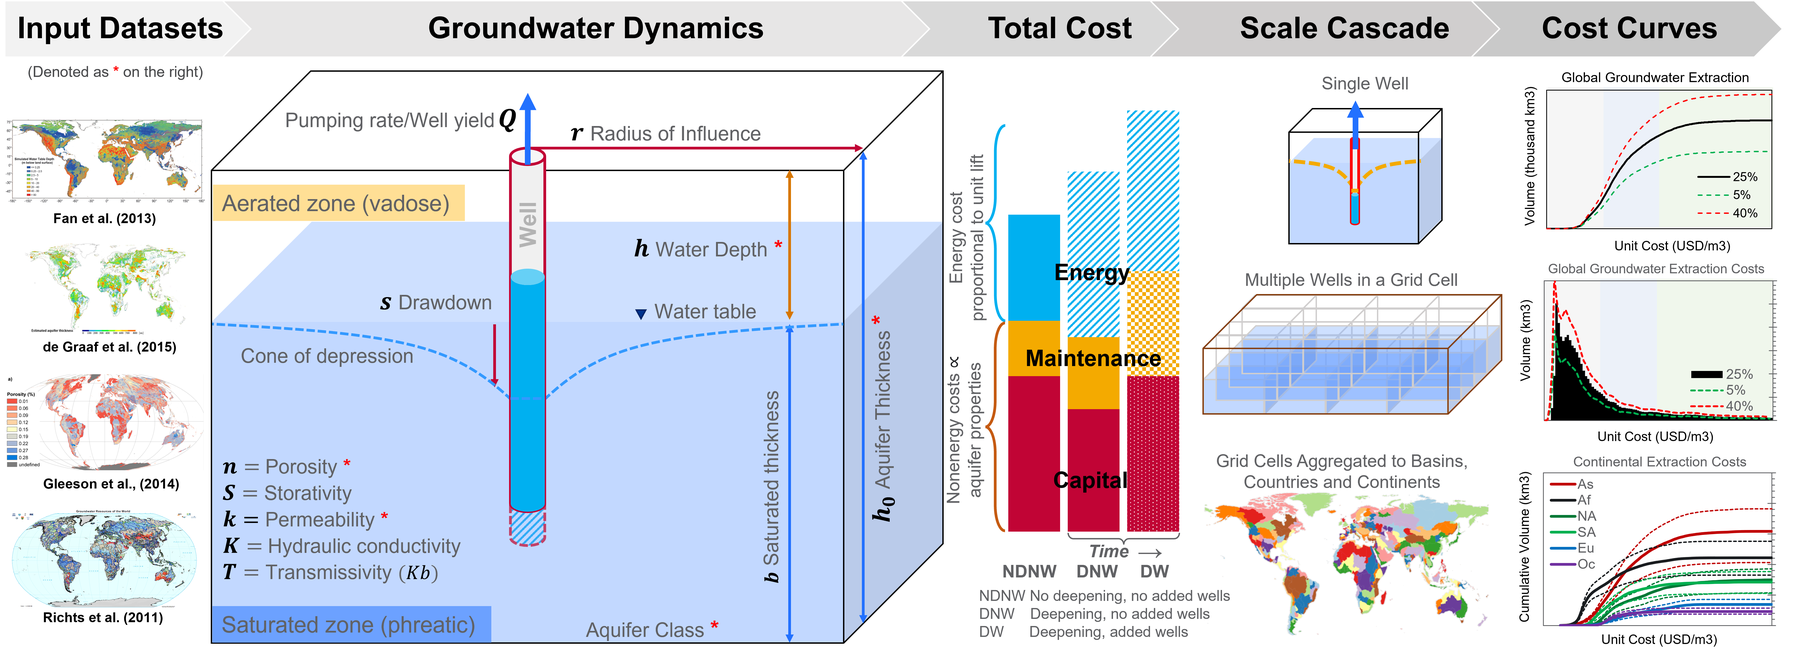
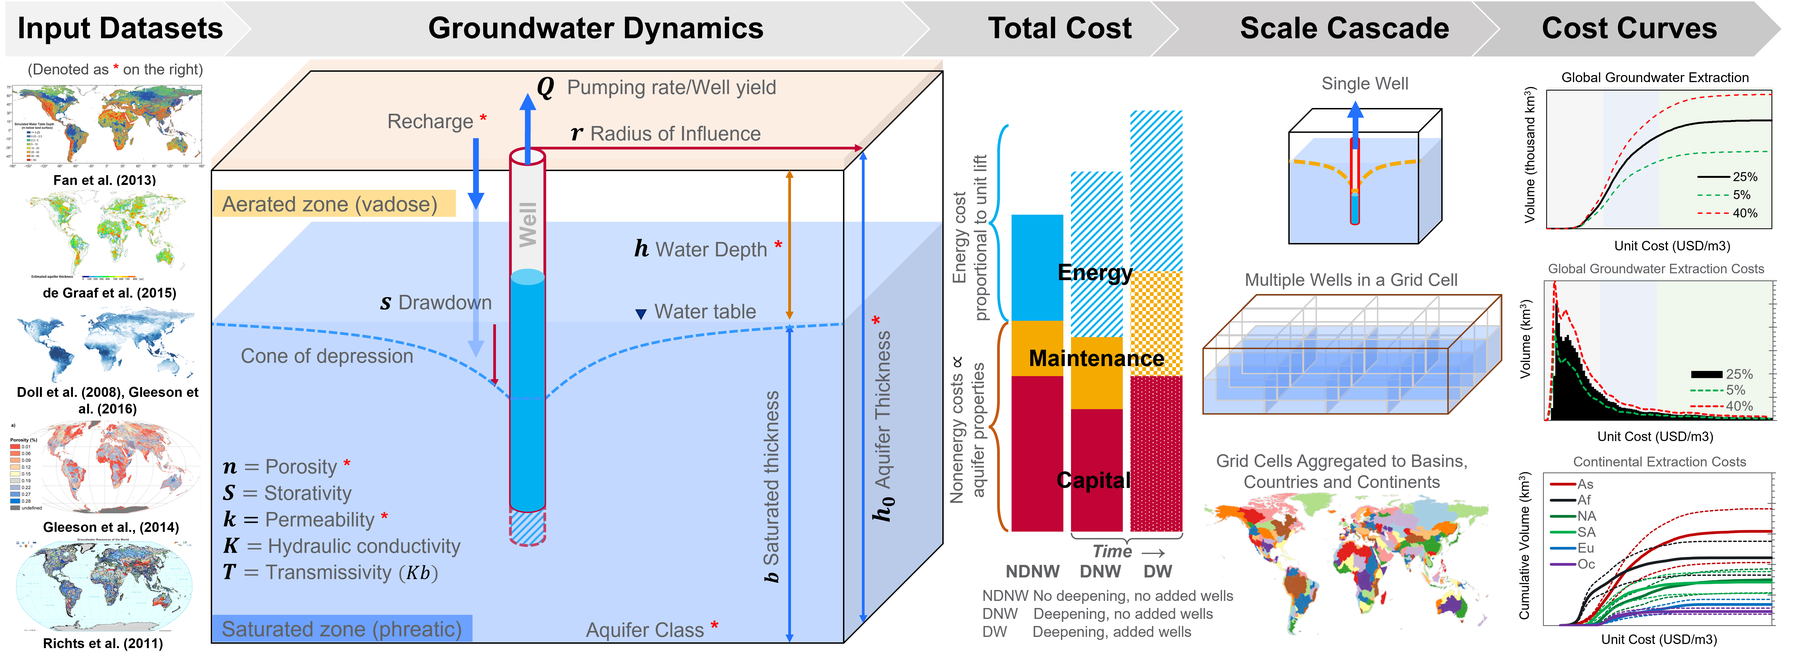
update documentation pre-release

Changed region(s): [[0.0, 0.0621, 0.53, 0.9931], [0.53, 0.1862, 0.6547, 0.7758], [0.53, 0.8069, 0.6858, 0.962]]

diff --git a/inputs/README.md b/inputs/README.md
@@ -1,8 +1,8 @@
 # Superwell Inputs
 
-[![DOI](https://data.msdlive.org/badge/DOI/10.57931/2307831.svg)](https://doi.org/10.57931/2307831)
+[![DOI](https://data.msdlive.org/badge/DOI/10.57931/2484226.svg)](https://doi.org/10.57931/2484226)
 
-The inputs for [`superwell`](https://github.com/JGCRI/superwell.git) primarily  comprises of aquifer properties on a 0.5° scale, including depth to groundwater, aquifer thickness, WHYMap aquifer classes, porosity, and permeability. These parameters have been digitized and geo-processed from sources like Fan et al. (2013), de Graaf et al. (2015), Richts et al. (2011), and Gleeson et al. (2014).
+The inputs for [`superwell`](https://github.com/JGCRI/superwell.git) primarily  comprises of aquifer properties on a 0.5° scale, including depth to groundwater, aquifer thickness, WHYMap aquifer classes, recharge rates, porosity, and permeability. These parameters have been digitized and geo-processed from sources like Fan et al. (2013), de Graaf et al. (2015), Richts et al. (2011),  Döll and Fiedler (2008), Gleeson et al., (2016), Messager et al., (2016), and Gleeson et al. (2014).
 
 Gridded aquifer properties can be utilized independently to estimate global groundwater availability or as inputs for the [`superwell`](https://github.com/JGCRI/superwell.git) model. [`superwell`](https://github.com/JGCRI/superwell.git) simulates groundwater extraction, and estimates global extractable volumes and unit costs ($/km³) under various user-defined scenarios.
 
@@ -16,9 +16,10 @@ The [`inputs/`](./inputs/) folder is structured as follows:
 | [Theis_well_function_table.csv](./Theis_well_function_table.csv) | Lookup table for well function relation               |
 | [basin_to_country_mapping.csv](./basin_to_country_mapping.csv) | Mapping between water basins and countries            |
 | [continent_county_mapping.csv](./continent_county_mapping.csv) | Mapping between continents and countries              |
-| [**inputs.csv**](./inputs.csv)                    | **Gridded aquifer properties**                            |
+| [**inputs_recharge_lakes.csv**](./inputs_recharge_lakes.csv)                    | **Gridded aquifer properties**                            |
 | [**params.csv**](./params.csv)                    | **Model settings and scenario assumptions**              |
 | [prep_inputs.R](./prep_inputs.R)              | Script to generate `inputs` file from geo-processed [`shapefiles/`](./shapefiles/)          |
+| [prep_inputs_recharge_lakes.R](./prep_inputs_recharge_lakes.R)              | Script to generate `inputs_recharge_lakes` file (with recharge and lakes) from geo-processed [`shapefiles/`](./shapefiles/)          |
 | [sample_inputs.py](./sample_inputs.py)        | Script to sample from `inputs` dataset    |
 | [sampled_data_100.csv](./sampled_data_100.csv) | Sampled set of aquifer properties for diagnostics     |
 | [sampled_data_100.png](./sampled_data_100.png) | Distribution comparison of sampled data               |
@@ -30,11 +31,14 @@ The [`inputs/`](./inputs/) folder is structured as follows:
 | Parameter                    | Description                              | Units               |
 |------------------------------ |------------------------------------------|---------------------|
 | `Country_filter`             | specify country filter if running for one country                           | N/A                 |
-| `Gridcell_filter`            | specify grid cell number to run one grid cell. See `GridCellID` column in [inputs.csv](./inputs.csv)                         | N/A                 |
+| `Basin_filter`            | specify basin name to run all cells within one basin. See `Basin_long_name` column in [inputs_recharge_lakes.csv](./inputs_recharge_lakes.csv)                         | N/A
+| `Gridcell_filter`            | specify grid cell number to run one grid cell. See `GridCellID` column in [inputs_recharge_lakes.csv](./inputs_recharge_lakes.csv)                         | N/A                 |
 | `Total_Simulation_Years`     | constrain total pumping lifetime                   | years               |
 | `Pumping_Days`               | change pumping days per year                    | days/year           |
 | `Depletion_Limit`               | Aquifer volume depletion limit                          | -              |
-| `Ponded_Depth`               | Ponded depth target                         | meters              |
+| `Recharge_Flag`               | Turn on/off recharge effects (default: 1 = on)                         | N/A              |
+| `Shallow_Recharge_Ratio`               | part of recharge reducing pumping requirement (default: 0.2)                         | N/A               |
+| `Shallow_Recharge_Threshold`               | part of ponded depth after which shallow recharge starts contributing to deep aquifer recharge (default: 0.75)                         | N/A               |
 | `Specific_weight`            | Specific weight of water                    |  kg/(m²·s²)          |
 | `Static_head`                | Static head                               | meters              |
 | `Max_Initial_Sat_Thickness`  | Maximum initial saturated thickness     | meters              |
@@ -54,36 +58,38 @@ The [`inputs/`](./inputs/) folder is structured as follows:
 - `Depletion_Limit` and `Ponded_Depth` could be altered to create a scenario for a pumping regime.
 - `Country_filter` and `Gridcell_filter` could be changed to run for specific *spatial* delineation.
 - `Total_Simulation_Years` and `Pumping_Days` could be changed to alter *temporal* extent or yearly pumping duration of groundwater extraction.
+- Change `Recharge_Flag` to 0 to turn off recharge effects or alter `Shallow_Recharge_Ratio` and `Shallow_Recharge_Threshold` to change the recharge effects.
 - All other variables in [params.csv](./params.csv) could also be varied to create alternative scenario assumptions.
 
 ## Aquifer Properties  
 
-File [inputs.csv](./inputs.csv) contains data on permeability, porosity, depth to groundwater, total aquifer thickness, grid area and the WHY class of 235 water basins [![DOI](https://data.msdlive.org/badge/DOI/10.57931/2307831.svg)](https://doi.org/10.57931/2307831).
+File [inputs_recharge_lakes.csv](./inputs_recharge_lakes.csv) contains data on permeability, porosity, depth to groundwater, total aquifer thickness, grid area, lake area, recharge rages, and the WHY class of 235 water basins [![DOI](https://data.msdlive.org/badge/DOI/10.57931/2484226.svg)](https://doi.org/10.57931/2484226).
 
 | Variable           | Description                                                 |
-|-------------------- |------------------------------------------------------------|
-| `GridCellID`        | Unique identifier for each (roughly 0.5°) grid cell         |
-| `Continent`         | Continent name                                             |
-| `Country`           | Country name                                               |
-| `GCAM_basin_ID`     | Identifier for GCAM hydrologic basin                        |
-| `Basin_long_name`   | Full name of the basin                                      |
-| `WHYClass`          | Hydrogeologic classification based on WHYMap aquifer classes (Richts et al., 2011) |
-| `Porosity`          | Soil porosity (%) (Gleeson et al., 2014)                    |
-| `Permeability`      | Soil permeability (in square meters; Gleeson et al., 2014)  |
+|--------------------|------------------------------------------------------------|
+| `GridCellID`       | Unique identifier for each (roughly 0.5°) grid cell         |
+| `Continent`        | Continent name                                             |
+| `Country`          | Country name                                               |
+| `GCAM_basin_ID`    | Identifier for GCAM hydrologic basin                        |
+| `Basin_long_name`  | Full name of the basin                                      |
+| `WHYClass`         | Hydrogeologic classification based on WHYMap aquifer classes (Richts et al., 2011) |
+| `Porosity`         | Soil porosity (%) (Gleeson et al., 2014)                    |
+| `Permeability`     | Soil permeability (in square meters; Gleeson et al., 2014)  |
 | `Aquifer_thickness` | Thickness of the aquifer (in meters; de Graaf et al., 2015) |
-| `Depth_to_water`    | Depth to groundwater (in meters; Fan et al., 2013)          |
-| `Grid_area`         | Area of the grid cell (in square meters)                    |
-| | |
+| `Depth_to_water`   | Depth to groundwater (in meters; Fan et al., 2013)          |
+| `Grid_area`        | Area of the grid cell (in square meters)                    |
+| `Lake_area`        | Area of the grid cell (in square meters)                    |
+|                    | |
 
 ## Cite Inputs  
 
 > *Cite input data as:* \
-Niazi, H., Watson, D., Hejazi, M., Yonkofski, C., Ferencz, S., Vernon, C., Graham, N., Wild, T., & Yoon, J. (2024). [Global Geo-processed Data of Aquifer Properties by 0.5° Grid, Country and Water Basins](https://doi.org/10.57931/2307831). MSD-LIVE Data Repository. <https://doi.org/10.57931/2307831> \
-[![DOI](https://data.msdlive.org/badge/DOI/10.57931/2307831.svg)](https://doi.org/10.57931/2307831)
+Niazi, H., Watson, D., Hejazi, M., Yonkofski, C., Ferencz, S., Vernon, C., Graham, N., Wild, T., & Yoon, J. (2024). [Global Geo-processed Data of Aquifer Properties by 0.5° Grid, Country and Water Basins](https://doi.org/10.57931/2484226). MultiSector Dynamics-Living, Intuitive, Value-adding, Environment. <https://doi.org/10.57931/2484226> \
+[![DOI](https://data.msdlive.org/badge/DOI/10.57931/2484226.svg)](https://doi.org/10.57931/2484226)
 
 ### Model documentation
 
-- Niazi, H., Ferencz, S., Graham, N., Yoon, J., Wild, T., Hejazi, M., Watson, D., & Vernon, C. (2024; In-prep). [Long-term Hydro-economic Analysis Tool for Evaluating Global Groundwater Cost and Supply: Superwell v1.0](https://gmd.copernicus.org/preprints/). *Geoscientific Model Development*.
+- Niazi, H., Ferencz, S., Graham, N., Yoon, J., Wild, T., Hejazi, M., Watson, D., & Vernon, C. (2025). [Long-term Hydro-economic Analysis Tool for Evaluating Global Groundwater Cost and Supply: Superwell v1.0](https://doi.org/10.5194/egusphere-2024-799). *Geoscientific Model Development*.
 
 ## References
 
@@ -91,3 +97,8 @@ Niazi, H., Watson, D., Hejazi, M., Yonkofski, C., Ferencz, S., Vernon, C., Graha
 - de Graaf, I. E. M., Sutanudjaja, E. H., van Beek, L. P. H., & Bierkens, M. F. P. (2015). A high-resolution global-scale groundwater model. Hydrol. Earth Syst. Sci., 19(2), 823-837. <https://doi.org/10.5194/hess-19-823-2015>
 - Gleeson, T., Moosdorf, N., Hartmann, J., & van Beek, L. P. H. (2014). A glimpse beneath earth's surface: GLobal HYdrogeology MaPS (GLHYMPS) of permeability and porosity. Geophysical Research Letters, 41(11), 3891-3898. <https://doi.org/10.1002/2014GL059856>
 - Richts, A., Struckmeier, W. F., & Zaepke, M. (2011). WHYMAP and the Groundwater Resources Map of the World 1:25,000,000. In J. A. A. Jones (Ed.), Sustaining Groundwater Resources: A Critical Element in the Global Water Crisis (pp. 159-173). Springer Netherlands. <https://doi.org/10.1007/978-90-481-3426-7_10>
+- Messager, M. L., Lehner, B., Grill, G., Nedeva, I., & Schmitt, O. (2016). Estimating the volume and age of water stored in global lakes using a geo-statistical approach. Nature Communications, 7(1), 13603. https://doi.org/10.1038/ncomms13603
+- Döll, P., & Fiedler, K. (2008). Global-scale modeling of groundwater recharge. Hydrol. Earth Syst. Sci., 12(3), 863-885. https://doi.org/10.5194/hess-12-863-2008
+- Gleeson, T., Befus, K. M., Jasechko, S., Luijendijk, E., & Cardenas, M. B. (2016). The global volume and distribution of modern groundwater. Nature Geoscience, 9(2), 161-167. https://doi.org/10.1038/ngeo2590 
+
+

diff --git a/README.md b/README.md
@@ -2,9 +2,12 @@
 [![tests](https://github.com/JGCRI/superwell/actions/workflows/test_coverage.yml/badge.svg?branch=main)](https://github.com/JGCRI/superwell/actions/workflows/test_coverage.yml)
 [![codecov](https://codecov.io/gh/JGCRI/superwell/branch/main/graph/badge.svg?token=XQ913U4IYM)](https://codecov.io/gh/JGCRI/superwell)
 [![docs](https://github.com/JGCRI/superwell/actions/workflows/docs.yaml/badge.svg?branch=main)](https://github.com/JGCRI/superwell/actions/workflows/docs.yaml)
-[![status](https://joss.theoj.org/papers/status.svg)](https://joss.theoj.org/papers/ae736aa6e75758498cf79ab8ec3fa886) -->
+[![status](https://joss.theoj.org/papers/status.svg)](https://joss.theoj.org/papers/ae736aa6e75758498cf79ab8ec3fa886)
+Software [![DOI](https://zenodo.org/badge/DOI/10.5281/zenodo.10828260.svg)](https://doi.org/10.5281/zenodo.10828260)
+Inputs [![DOI](https://data.msdlive.org/badge/DOI/10.57931/2484226.svg)](https://doi.org/10.57931/2484226)
+Outputs [![DOI](https://data.msdlive.org/badge/DOI/10.57931/2307832.svg)](https://doi.org/10.57931/2307832) -->
 
-# _superwell_: A physics-based hydro-economic model for groundwater cost and supply assessment
+# _superwell_: A physics-based hydro-economic model for estimating groundwater cost and supply globally
 
 The [`superwell`](https://github.com/JGCRI/superwell.git) model provides estimates of the global extractable volumes and unit-costs $(USD/km^3)$ of accessible groundwater production under user-specified extraction scenarios.  
 The structure of [`superwell`](https://github.com/JGCRI/superwell.git) is:
@@ -14,7 +17,7 @@ The structure of [`superwell`](https://github.com/JGCRI/superwell.git) is:
 - spatially and temporally flexible (covers grid to global and hourly to centennial scales)  
 
 > _Key model documentation & primary citation:_ \
-Niazi, H., Ferencz, S., Graham, N., Yoon, J., Wild, T., Hejazi, M., Watson, D., & Vernon, C. (2024; In-prep). [Long-term Hydro-economic Assessment Tool for Evaluating Global Groundwater Cost and Supply: Superwell v1](https://gmd.copernicus.org/preprints/). _Geoscientific Model Development_.
+Niazi, H., Ferencz, S., Graham, N., Yoon, J., Wild, T., Hejazi, M., Watson, D., & Vernon, C. (2025). [Long-term Hydro-economic Analysis Tool for Evaluating Global Groundwater Cost and Supply: Superwell v1.0](https://doi.org/10.5194/egusphere-2024-799). _Geoscientific Model Development_.
 
 ## Getting Started  
 
@@ -39,18 +42,18 @@ Adjust [params.csv](./inputs/params.csv) in [`inputs/`](./inputs/) folder to fit
 All inputs are in [`inputs/`](./inputs/) folder. The [`superwell`](https://github.com/JGCRI/superwell.git) code requires two primary input files:
 
 - [params.csv](./inputs/params.csv) defining model settings and scenario assumptions  
-- [inputs.csv](./inputs/inputs.csv) containing grided aquifer thickness, porosity, depth to water, permeability, grid area, WHY class, and grid area
+- [inputs_recharge_lakes.csv](./inputs/inputs_recharge_lakes.csv) containing grided aquifer thickness, porosity, depth to water, permeability, grid area, recharge, WHY class, and grid area
 
 and two supporting data files:
 
 - [GCAM_Electricity_Rates.csv](./inputs/GCAM_Electricity_Rates.csv) providing  assumptions on the cost of electricity in 172 countries
 - [Theis_well_function_table.csv](./inputs/Theis_well_function_table.csv) as a look-up table for relation between $u$ and well function $W(u)$  
 
-[`inputs/`](./inputs/) folder also contains digitized, geo-processed [shape files](./inputs/shapefiles/) of aquifer properties that makes the contents of the [inputs.csv](./inputs/inputs.csv) file after processing.
+[`inputs/`](./inputs/) folder also contains digitized, geo-processed [shape files](./inputs/shapefiles/) of aquifer properties that makes the contents of the [inputs_recharge_lakes.csv](./inputs/inputs_recharge_lakes.csv) file after processing.
 
 > _Cite input data as:_ \
-Niazi, H., Watson, D., Hejazi, M., Yonkofski, C., Ferencz, S., Vernon, C., Graham, N., Wild, T., & Yoon, J. (2024). [Global Geo-processed Data of Aquifer Properties by 0.5° Grid, Country and Water Basins](https://doi.org/10.57931/2307831). MSD-LIVE Data Repository. <https://doi.org/10.57931/2307831> \
-[![DOI](https://data.msdlive.org/badge/DOI/10.57931/2307831.svg)](https://doi.org/10.57931/2307831)
+Niazi, H., Watson, D., Hejazi, M., Yonkofski, C., Ferencz, S., Vernon, C., Graham, N., Wild, T., & Yoon, J. (2024). [Global Geo-processed Data of Aquifer Properties by 0.5° Grid, Country and Water Basins](https://doi.org/10.57931/2484226). MultiSector Dynamics-Living, Intuitive, Value-adding, Environment. <https://doi.org/10.57931/2484226> \
+[![DOI](https://data.msdlive.org/badge/DOI/10.57931/2484226.svg)](https://doi.org/10.57931/2484226)
 
 See [documentation on inputs](./inputs/README.md) for more details.  
 
@@ -60,7 +63,7 @@ All outputs are written to [`outputs/`](./outputs/) folder as `.csv` formats.
 A select-few key outputs include: extractable volumes, drawdown, number of wells, costs including capital, maintenance, pumping, and unit costs of groundwater production.  
 
 > _Cite output data as:_ \
-Niazi, H., Ferencz, S., Yoon, J., Graham, N., Wild, T., Hejazi, M., Watson, D., & Vernon, C. (2024). [Globally Gridded Groundwater Extraction Volumes and Costs under Six Depletion and Ponded Depth Targets](https://doi.org/10.57931/2307832). MSD-LIVE Data Repository. <https://doi.org/10.57931/2307832> \
+Niazi, H., Ferencz, S., Yoon, J., Graham, N., Wild, T., Hejazi, M., Watson, D., & Vernon, C. (2024). [Globally Gridded Groundwater Extraction Volumes and Costs under Six Depletion and Ponded Depth Targets](https://doi.org/10.57931/2307832). MultiSector Dynamics-Living, Intuitive, Value-adding, Environment. <https://doi.org/10.57931/2307832> \
 [![DOI](https://data.msdlive.org/badge/DOI/10.57931/2307832.svg)](https://doi.org/10.57931/2307832)
 
 See [documentation on outputs](./outputs/README.md) for more details.
@@ -85,7 +88,7 @@ Several high-impact publications and data products have utilized [`superwell`](h
 
 ### Papers
 
-- Niazi, H., Wild, T., Turner, S., Graham, N., Hejazi, M., Msangi, S., Kim, S., Lamontagne, J., & Zhao, M. (2024; In-press). [Global Peak Water Limit of Future Groundwater Withdrawals](https://www.nature.com/natsustain/). _Nature Sustainability_.
+- Niazi, H., Wild, T. B., Turner, S. W. D., Graham, N. T., Hejazi, M., Msangi, S., Kim, S., Lamontagne, J. R., & Zhao, M. (2024). Global peak water limit of future groundwater withdrawals. _Nature Sustainability, 7_(4), 413–422. <https://doi.org/10.1038/s41893-024-01306-w>
 
 - Turner, S., Hejazi, M., Yonkofski, C., Kim, S., & Kyle, P. (2019). [Influence of Groundwater Extraction Costs and Resource Depletion Limits on Simulated Global Nonrenewable Water Withdrawals Over the Twenty-First Century](https://doi.org/10.1029/2018EF001105). _Earth's Future_, 7(2), 123-135.
 
@@ -95,7 +98,7 @@ Several high-impact publications and data products have utilized [`superwell`](h
 
 ### Model documentation
 
-- Niazi, H., Ferencz, S., Graham, N., Yoon, J., Wild, T., Hejazi, M., Watson, D., & Vernon, C. (2024; In-prep). [Long-term Hydro-economic Assessment Tool for Evaluating Global Groundwater Cost and Supply: Superwell v1](https://gmd.copernicus.org/preprints/). _Geoscientific Model Development_.
+- Niazi, H., Ferencz, S., Graham, N., Yoon, J., Wild, T., Hejazi, M., Watson, D., & Vernon, C. (2025). [Long-term Hydro-economic Analysis Tool for Evaluating Global Groundwater Cost and Supply: Superwell v1.0](https://doi.org/10.5194/egusphere-2024-799). _Geoscientific Model Development_.
 
 - Niazi/Ferencz et al software documentation JoSS in-prep
 

diff --git a/outputs/README.md b/outputs/README.md
@@ -2,16 +2,16 @@
 
 [![DOI](https://data.msdlive.org/badge/DOI/10.57931/2307832.svg)](https://doi.org/10.57931/2307832)
 
-This folder provides simulated outputs from [`superwell`](https://github.com/JGCRI/superwell.git), a hydro-economic tool designed for the long-term assessment of groundwater cost and supply. It offers globally gridded data on extractable groundwater volumes and associated unit costs (USD/km³), driven by various user-defined depletion and ponded depth scenarios.
+This folder contains simulated outputs from [`superwell`](https://github.com/JGCRI/superwell.git), a hydro-economic tool designed for the long-term assessment of groundwater cost and supply. It offers globally gridded data on extractable groundwater volumes and associated unit costs (USD/km³), driven by various user-defined depletion and ponded depth scenarios.
 
 ## Outputs Overview
 
-Simulation outputs from [`superwell`](https://github.com/JGCRI/superwell.git) will be written to this folder in the format of `superwell_py_deep_all_0.*PD_0.*DL.csv`. These files detail the outputs of global groundwater extraction volumes and cost estimates on a 0.5° scale across user-defined scenarios.
+Simulation outputs from [`superwell`](https://github.com/JGCRI/superwell.git) will be written to this folder in the format of `superwell_py_deep_C_*_B_*_G_*_0.*PD_0.*DL_*RR.csv`. These files detail the outputs of global groundwater extraction volumes and cost estimates on a 0.5° scale across user-defined scenarios.
 
 Six standard scenarios that vary Ponded Depth (PD; 0.3 and 0.6 m) and Depletion Limit (DL; 5%, 25%, and 40% of available volume) have been provided in a data repository: [![DOI](https://data.msdlive.org/badge/DOI/10.57931/2307832.svg)](https://doi.org/10.57931/2307832). Two sample outputs include:
 
 - `superwell_py_deep_all_0.3PD_0.25DL_sample_100.csv` presents superwell outputs for 100 sampled data points that match the distributions of global aquifer properties.
-- `superwell_py_deep_all_0.3PD_0.25DL_Grid_72548.csv` provides superwell output for a single grid cell.
+- `superwell_py_deep_C_all_B_all_G_72548_0.3PD_0.25DL_0.2RR.csv` provides superwell output for a single grid cell.
 
 ## Outputs Description
 
@@ -22,9 +22,16 @@ The output files contain various parameters, grouped as follows:
 - `year_number`: Year of pumping
 - `depletion_limit`: Set depletion limit (DL) as a volume fraction of total available groundwater
 - Geographic identifiers: `continent`, `country`, `gcam_basin_id`, `Basin_long_name`, `grid_id`
-- `grid_area` (km²): Area of the grid cell
+- Areas: `grid_area` (km²): Area of the grid cell,  `lake_area` (km²): inland lake areas, `grid_area_dry` (km²): corrected grid area that excludes lake area covering the grid cell
 - `whyclass`: Hydrogeological classification of the aquifer
 - Aquifer properties: `permeability` (m/day), `porosity` (%), `total_thickness` (m), `depth_to_water` (m)
+
+### Recharge related metrics
+- `recharge` (m): long-term annual averaged recharge rate 
+- `shallow_recharge_depth` (m) part of total recharge contributing to shallow part of the aquifer
+- `threshold_depth` (m) depth part of ponded depth the shallow recharge should reduce up to
+- `net_ponded_depth_target` (m) corrected ponded depth target based on recharge 
+- `excessive_recharge_depth` (m) extra shallow recharge which will contribute to deep storage increase
 
 ### Hydraulic Properties and Extraction Metrics
 
@@ -47,6 +54,7 @@ The output files contain various parameters, grouped as follows:
 - `volume_produced_allwells` (m³), `cumulative_vol_produced_allwells` (m³): Total extraction volumes for all wells in a grid cell
 - `available_volume` (m³): Available groundwater volume in storage for the grid cell
 - `depleted_vol_fraction`: Fraction of total volume pumped over available volumes in a grid cell
+- `deep_recharge_vol` (m³) total recharge volume going to deep aquifer, `deep_recharge_vol_imposed` (m³) net deep recharge volume used to increase deep storage
 - Cost-related outputs: `well_installation_cost` (USD), `annual_capital_cost`, `maintenance_cost`, `nonenergy_cost` (USD)
 - `energy_cost_rate` (USD/kWh): Electricity rate
 - `energy_cost` (USD): Energy cost for groundwater pumping
@@ -56,9 +64,9 @@ The output files contain various parameters, grouped as follows:
 ## Cite Outputs
 
 > _Cite output data as:_ \
-Niazi, H., Ferencz, S., Yoon, J., Graham, N., Wild, T., Hejazi, M., Watson, D., & Vernon, C. (2024). [Globally Gridded Groundwater Extraction Volumes and Costs under Six Depletion and Ponded Depth Targets](https://doi.org/10.57931/2307832). MSD-LIVE Data Repository. <https://doi.org/10.57931/2307832> \
+Niazi, H., Ferencz, S., Yoon, J., Graham, N., Wild, T., Hejazi, M., Watson, D., & Vernon, C. (2024). [Globally Gridded Groundwater Extraction Volumes and Costs under Six Depletion and Ponded Depth Targets](https://doi.org/10.57931/2307832). MultiSector Dynamics-Living, Intuitive, Value-adding, Environment. <https://doi.org/10.57931/2307832> \
 [![DOI](https://data.msdlive.org/badge/DOI/10.57931/2307832.svg)](https://doi.org/10.57931/2307832)
 
 ### Model documentation
 
-> Niazi, H., Ferencz, S., Graham, N., Yoon, J., Wild, T., Hejazi, M., Watson, D., & Vernon, C. (2024; In-prep). [Long-term Hydro-economic Analysis Tool for Evaluating Global Groundwater Cost and Supply: Superwell v1.0](https://gmd.copernicus.org/preprints/). _Geoscientific Model Development_.
+> Niazi, H., Ferencz, S., Graham, N., Yoon, J., Wild, T., Hejazi, M., Watson, D., & Vernon, C. (2025). [Long-term Hydro-economic Analysis Tool for Evaluating Global Groundwater Cost and Supply: Superwell v1.0](https://doi.org/10.5194/egusphere-2024-799). _Geoscientific Model Development_.

diff --git a/python/README.md b/python/README.md
@@ -1,5 +1,7 @@
 # superwell
 
+[![DOI](https://zenodo.org/badge/DOI/10.5281/zenodo.10828260.svg)](https://doi.org/10.5281/zenodo.10828260)
+
 ## Overview of the Scripts
 
 - [`superwell.py`](./superwell.py): runs the superwell model to simulate groundwater extraction and cost estimation.
@@ -9,7 +11,7 @@
 
 ## Configuration and Setup
 
-Adjust settings in [`params.csv`](../inputs/params.csv) within the [`inputs/`](../inputs/) folder to match your scenario requirements. This file controls various model parameters like `Country_filter`, `Gridcell_filter`, `Ponded_Depth`, and `Depletion_Limit`.
+Adjust settings in [`params.csv`](../inputs/params.csv) within the [`inputs/`](../inputs/) folder to match your scenario requirements. This file controls various model parameters like `Country_filter`, `Basin_filter`, `Gridcell_filter`, `Ponded_Depth`, `Recharge_flag`, and `Depletion_Limit`.
 
 Before running the `superwell` scripts, ensure that Python, key libraries, and any other model-specific dependencies are installed.
 
@@ -27,7 +29,7 @@ This script will process the input data and populate results in the [`outputs/`]
 
 ## Superwell Algorithm Overview
 
-![superwell algorithm overview](sw_workflow_v2.jpg)
+![superwell algorithm overview](sw_workflow_v3.jpg)
 
 ## Citation
 

diff --git a/R/README.md b/R/README.md
@@ -2,7 +2,7 @@
 
 `superwell.R` is an _**old version**_ of the model and will is **_not maintained_** anymore. This version has been included in the model repository to be able to reproduce following studies.
 
-- Niazi, H., Wild, T., Turner, S., Graham, N., Hejazi, M., Msangi, S., Kim, S., Lamontagne, J., & Zhao, M. (2024; In-press). [Global Peak Water Limit of Future Groundwater Withdrawals](https://www.nature.com/natsustain/). _Nature Sustainability_.
+- Niazi, H., Wild, T. B., Turner, S. W. D., Graham, N. T., Hejazi, M., Msangi, S., Kim, S., Lamontagne, J. R., & Zhao, M. (2024). Global peak water limit of future groundwater withdrawals. _Nature Sustainability, 7_(4), 413–422. <https://doi.org/10.1038/s41893-024-01306-w>
 
 - Turner, S. W. D., Hejazi, M., Yonkofski, C., Kim, S. H., & Kyle, P. (2019). [Influence of Groundwater Extraction Costs and Resource Depletion Limits on Simulated Global Nonrenewable Water Withdrawals Over the Twenty-First Century](https://doi.org/10.1029/2018EF001105). _Earth's Future_, 7(2), 123-135.
 
